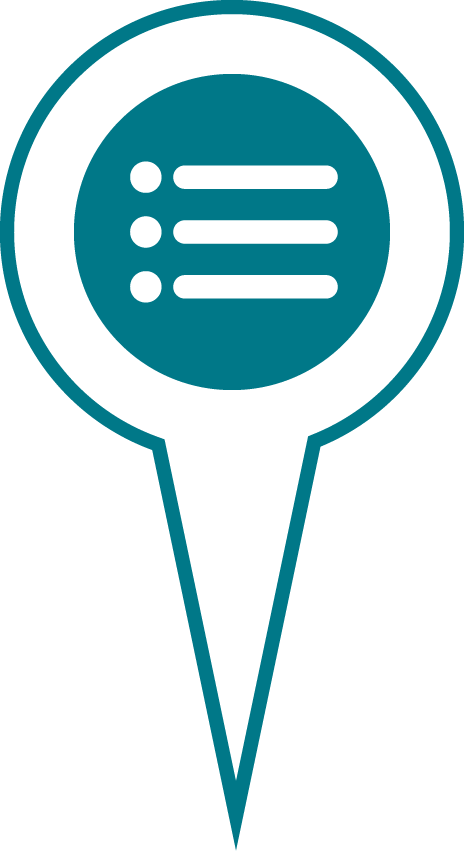
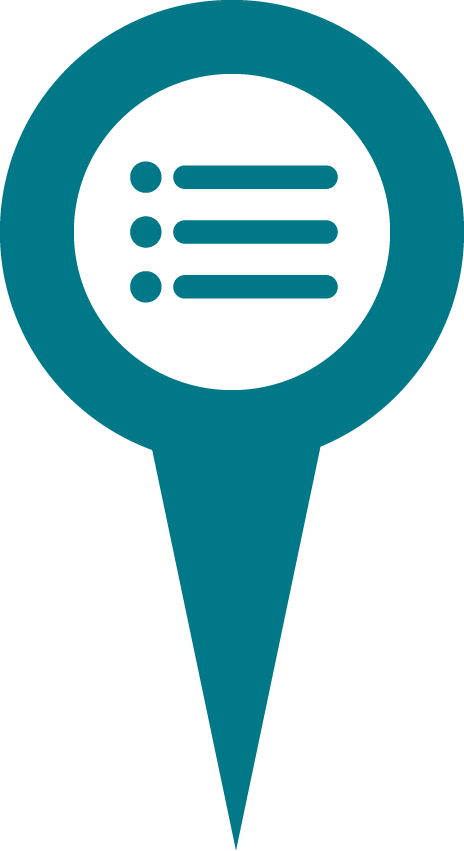
Added alerts position

diff --git a/src/app/map/map.page.ts b/src/app/map/map.page.ts
@@ -1,4 +1,4 @@
-import {ChangeDetectorRef, Component, OnDestroy, OnInit} from '@angular/core';
+import {ChangeDetectorRef, Component, OnInit} from '@angular/core';
 import {AlertController, LoadingController, Platform, PopoverController} from '@ionic/angular';
 import {Circle, LatLng, LeafletMouseEvent, Map, Marker, TileLayer} from 'leaflet';
 import {MarkerClusterGroup} from 'leaflet.markercluster';
@@ -43,6 +43,7 @@ export class MapPage implements OnInit {
   private _pauseSub: Subscription;
   private _networkSub: Subscription;
   private _eventsSub: Subscription;
+  private _alertsSub: Subscription;
   private _obsSub: Subscription;
   private _newEventsSub: Subscription;
   private _newAlertsSub: Subscription;
@@ -75,6 +76,7 @@ export class MapPage implements OnInit {
   private _restoreOfflineBasemap = false;
 
   private _eventMarkers: MarkerClusterGroup;
+  private _alertMarkers: MarkerClusterGroup;
   private _obsMarkers: MarkerClusterGroup;
   private _userObsMarkers: MarkerClusterGroup;
 
@@ -126,6 +128,15 @@ export class MapPage implements OnInit {
       events.forEach((e) => {
         if (e.coordinates) {
           this.mapService.createEventMarker(e).addTo(this._eventMarkers);
+        }
+      });
+    });
+
+    this._alertsSub = this.newsService.alerts.subscribe(alerts => {
+      this._alertMarkers.clearLayers();
+      alerts.forEach((a) => {
+        if (a.coordinates) {
+          this.mapService.createAlertMarker(a).addTo(this._alertMarkers);
         }
       });
     });
@@ -214,6 +225,20 @@ export class MapPage implements OnInit {
       }
     });
 
+    this._alertMarkers = new MarkerClusterGroup({
+      iconCreateFunction: (cluster) => {
+        const icon = this._alertMarkers._defaultIconCreateFunction(cluster);
+        icon.options.className = 'marker-cluster marker-cluster-alerts';
+        return icon;
+      },
+    });
+
+    this._alertMarkers.on('clusterclick', () => {
+      if (this._isAppOffline) {
+        this.toastService.presentToast('common.errors.offline', Duration.short);
+      }
+    });
+
     this._obsMarkers = new MarkerClusterGroup({
       iconCreateFunction: (cluster) => {
         const icon = this._obsMarkers._defaultIconCreateFunction(cluster);
@@ -273,6 +298,7 @@ export class MapPage implements OnInit {
     }).addTo(this._map);
 
     this._eventMarkers.addTo(this._map);
+    this._alertMarkers.addTo(this._map);
     this._obsMarkers.addTo(this._map);
     this._userObsMarkers.addTo(this._map);
 
@@ -590,6 +616,7 @@ export class MapPage implements OnInit {
         hasUserObsMarkers: this._map.hasLayer(this._userObsMarkers),
         hasObsMarkers: this._map.hasLayer(this._obsMarkers),
         hasEventsMarkers: this._map.hasLayer(this._eventMarkers),
+        hasAlertsMarkers: this._map.hasLayer(this._alertMarkers),
       },
       event: e,
       showBackdrop: false,
@@ -610,6 +637,10 @@ export class MapPage implements OnInit {
 
       case Markers.EVENTS:
         this.toggleMarkerCluster(this._eventMarkers, checked);
+        break;
+
+      case Markers.ALERTS:
+        this.toggleMarkerCluster(this._alertMarkers, checked);
         break;
     }
   }

diff --git a/src/app/news/news.service.ts b/src/app/news/news.service.ts
@@ -39,7 +39,7 @@ export class NewsService {
 
   constructor(private http: HttpClient, private storage: Storage, private i18n: LangService) { }
 
-  async fetchAlerts(): Promise<void> {
+  async fetchAlerts() {
     const url = `${environment.apiBaseUrl}/${environment.apiVersion}/alerts/`;
 
     const qParams = new HttpParams()
@@ -60,6 +60,9 @@ export class NewsService {
         id: alert._id,
         title: alert.title[this.i18n.currLanguage] || alert.title.it,
         content: alert.content[this.i18n.currLanguage] || alert.content.it,
+        coordinates: alert.position && alert.position.coordinates.length > 0
+          ? new LatLng(alert.position.coordinates[1], alert.position.coordinates[0])
+          : null,
         links: this.formatLinks(alert.links),
         dateEnd: alert.dateEnd,
         read: read.includes(alert._id),
@@ -77,7 +80,7 @@ export class NewsService {
     await this.checkNewAlerts();
   }
 
-  async fetchEvents(): Promise<void> {
+  async fetchEvents() {
     const url = `${environment.apiBaseUrl}/${environment.apiVersion}/events/`;
 
     const qParams = new HttpParams()
@@ -121,9 +124,7 @@ export class NewsService {
     await this.checkNewEvents();
   }
 
-  private formatLinks(
-    originalLinks?: Array<{ nameIta: string; nameEng: string; url: string }>
-  ): Array<Link> | null {
+  private formatLinks(originalLinks?: Array<{ nameIta: string; nameEng: string; url: string }>): Array<Link> | null {
     if (!originalLinks) {
       return null;
     }
@@ -144,7 +145,7 @@ export class NewsService {
     return this._events.getValue().find((e) => e.id === id);
   }
 
-  async saveData(key: string, id: string): Promise<void> {
+  async saveData(key: string, id: string) {
     const data = await this.storage.get(key) as string[];
 
     if (!data) {
@@ -157,7 +158,7 @@ export class NewsService {
     }
   }
 
-  private async cleanSavedData(key: string, ids: Array<string>): Promise<void> {
+  private async cleanSavedData(key: string, ids: Array<string>) {
     const data = await this.storage.get(key) as string[];
 
     if (!data) {
@@ -170,13 +171,13 @@ export class NewsService {
     );
   }
 
-  async checkNewAlerts(): Promise<void> {
+  async checkNewAlerts() {
     const areNew = this._alerts.getValue().some((e) => !e.read);
 
     this._newAlerts.next(areNew);
   }
 
-  async checkNewEvents(): Promise<void> {
+  async checkNewEvents() {
     const areNew = this._events.getValue().some((e) => !e.read);
 
     this._newEvents.next(areNew);

diff --git a/src/app/map/map.service.ts b/src/app/map/map.service.ts
@@ -13,10 +13,11 @@ import {LocationErrors} from '../shared/common.enum';
 import {environment} from '../../environments/environment';
 import {GenericApiResponse} from '../shared/utils.interface';
 import {MinimalObservation} from '../observations/observations.service';
-import {eventMarkerIcon, observationMarkerIcon, userObservationMarkerIcon} from '../shared/markers';
+import {eventMarkerIcon, alertMarkerIcon, observationMarkerIcon, userObservationMarkerIcon} from '../shared/markers';
 import {NetworkService} from '../shared/network.service';
 import {Event} from '../news/events/event.model';
 import {AuthService} from '../shared/auth.service';
+import {Alert} from '../news/alerts/alert.model';
 
 @Injectable({providedIn: 'root'})
 export class MapService {
@@ -136,6 +137,17 @@ export class MapService {
     });
 
     marker.on('click', () => this.onMarkerClick(['news/events/', event.id]));
+
+    return marker;
+  }
+
+  createAlertMarker(alert: Alert): Marker {
+    const marker = new Marker(alert.coordinates, {
+      icon: alertMarkerIcon(),
+      zIndexOffset: 1,
+    });
+
+    marker.on('click', () => this.onMarkerClick(['news/alerts/', alert.id]));
 
     return marker;
   }

diff --git a/src/app/map/legend/legend.component.html b/src/app/map/legend/legend.component.html
@@ -8,9 +8,7 @@
 			class="ion-no-margin"
 		></ion-icon>
 
-		<ion-label class="ion-text-wrap">{{
-			"page-map.legend.user-obs" | translate
-		}}</ion-label>
+		<ion-label class="ion-text-wrap">{{"page-map.legend.user-obs" | translate}}</ion-label>
 
 		<ion-checkbox
 			slot="end"
@@ -28,9 +26,7 @@
 			class="ion-no-margin"
 		></ion-icon>
 
-		<ion-label class="ion-text-wrap">{{
-			"page-map.legend.other-obs" | translate
-		}}</ion-label>
+		<ion-label class="ion-text-wrap">{{"page-map.legend.other-obs" | translate}}</ion-label>
 
 		<ion-checkbox
 			slot="end"
@@ -54,6 +50,24 @@
 			slot="end"
 			[checked]="navParams.get('hasEventsMarkers')"
 			(ionChange)="onCheckboxChange($event, _markerEnum.EVENTS)"
+		></ion-checkbox>
+	</ion-item>
+
+	<!-- Alerts -->
+	<ion-item lines="none">
+		<ion-icon
+				src="assets/images/alert-marker.svg"
+				slot="start"
+				size="large"
+				class="ion-no-margin"
+		></ion-icon>
+
+		<ion-label>{{ "page-map.legend.alerts" | translate }}</ion-label>
+
+		<ion-checkbox
+				slot="end"
+				[checked]="navParams.get('hasAlertsMarkers')"
+				(ionChange)="onCheckboxChange($event, _markerEnum.ALERTS)"
 		></ion-checkbox>
 	</ion-item>
 </ion-list>

diff --git a/src/app/shared/markers.ts b/src/app/shared/markers.ts
@@ -42,10 +42,10 @@ export function observationMarkerIcon(): Icon {
   });
 }
 
-export function localObservationMarkerIcon(): Icon {
+export function eventMarkerIcon(): Icon {
   return new Icon({
-    iconUrl: 'assets/images/local-observation-marker.png',
-    iconRetinaUrl: 'assets/images/local-observation-marker-2x.png',
+    iconUrl: 'assets/images/event-marker.png',
+    iconRetinaUrl: 'assets/images/event-marker-2x.png',
     shadowUrl: 'leaflet/marker-shadow.png',
     iconSize: [25, 46],
     iconAnchor: [12.5, 46],
@@ -53,10 +53,10 @@ export function localObservationMarkerIcon(): Icon {
   });
 }
 
-export function eventMarkerIcon(): Icon {
+export function alertMarkerIcon(): Icon {
   return new Icon({
-    iconUrl: 'assets/images/event-marker.png',
-    iconRetinaUrl: 'assets/images/event-marker-2x.png',
+    iconUrl: 'assets/images/alert-marker.png',
+    iconRetinaUrl: 'assets/images/alert-marker-2x.png',
     shadowUrl: 'leaflet/marker-shadow.png',
     iconSize: [25, 46],
     iconAnchor: [12.5, 46],

diff --git a/src/theme/_markerClusters.scss b/src/theme/_markerClusters.scss
@@ -6,18 +6,26 @@
   }
 }
 
-.marker-cluster-user-obs {
-  background-color: rgba(0, 167, 185, 0.6);
+.marker-cluster-alerts {
+  background-color: rgb(250, 212, 95);
 
   div {
-    background-color: rgba(0, 120, 136, 0.6);
+    background-color: rgb(241, 195, 55);
   }
 }
 
-.marker-cluster-obs {
+.marker-cluster-user-obs {
   background-color: rgba(255, 255, 255, 0.6);
 
   div {
     background-color: rgba(225, 225, 225, 0.6);
+  }
+}
+
+.marker-cluster-obs {
+  background-color: rgba(0, 167, 185, 0.6);
+
+  div {
+    background-color: rgba(0, 120, 136, 0.6);
   }
 }

diff --git a/src/app/map/legend/legend.component.ts b/src/app/map/legend/legend.component.ts
@@ -8,6 +8,7 @@ export enum Markers {
   USER_OBSERVATIONS,
   OTHER_OBSERVATIONS,
   EVENTS,
+  ALERTS
 }
 
 @Component({
@@ -23,8 +24,7 @@ export class LegendComponent {
     public navParams: NavParams,
     private events: Events,
     public authService: AuthService
-  ) {
-  }
+  ) { }
 
   onCheckboxChange(e: CustomEvent, markerType: Markers) {
     this.events.publish('popover:change', {

diff --git a/src/environments/environment.ts b/src/environments/environment.ts
@@ -1,10 +1,10 @@
 export const environment = {
   production: false,
 
-  // apiBaseUrl: 'http://localhost:8000',
+  apiBaseUrl: 'http://localhost:8000',
   // apiBaseUrl: 'http://192.168.1.103:8000',
   // apiBaseUrl: "https://api-simile.como.polimi.it",
-  apiBaseUrl: 'http://131.175.56.116:8001',
+  // apiBaseUrl: 'http://131.175.56.116:8001',
 
   apiVersion: 'v1',
 };

diff --git a/src/app/news/alerts/alerts.component.ts b/src/app/news/alerts/alerts.component.ts
@@ -19,8 +19,7 @@ export class AlertsComponent implements OnInit {
     private i18n: TranslateService,
     private networkService: NetworkService,
     private router: Router
-  ) {
-  }
+  ) {}
 
   ngOnInit(): void {
     this.locale = this.i18n.currentLang;

diff --git a/src/app/news/alerts/alert.model.ts b/src/app/news/alerts/alert.model.ts
@@ -1,9 +1,11 @@
+import {LatLng} from 'leaflet';
 import {Link} from '../common/link.model';
 
 export interface Alert {
   id: string;
   title: string;
   content: string;
+  coordinates?: LatLng;
   links?: Array<Link>;
   dateEnd: Date;
   read: boolean;

diff --git a/CHANGELOG.md b/CHANGELOG.md
@@ -5,6 +5,9 @@ The format is based on [Keep a Changelog](https://keepachangelog.com/en/1.0.0/),
 and this project adheres to [Semantic Versioning](https://semver.org/spec/v2.0.0.html).
 
 ## [Unreleased]
+### Updated
+- Added position to alerts
+- Inverted observations markers
 
 ## [2.0.0] - 2021-01-10
 ### Added
